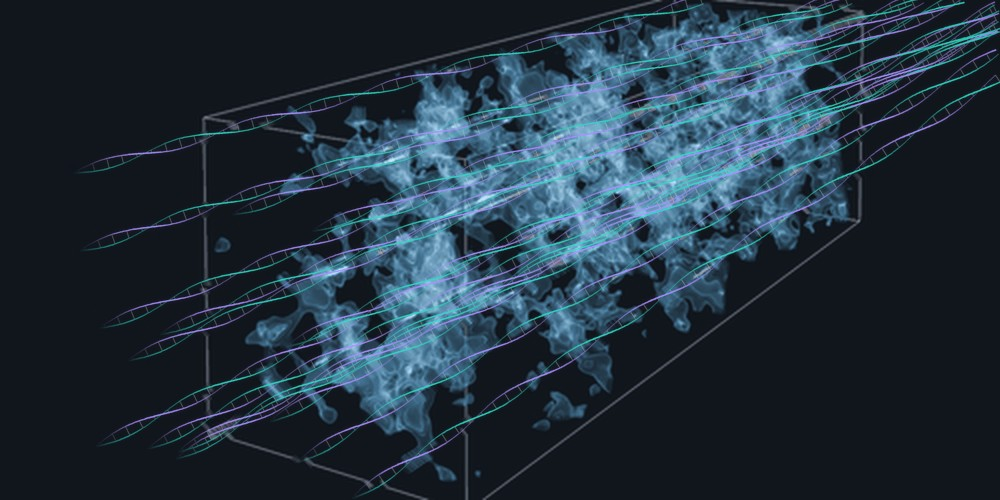
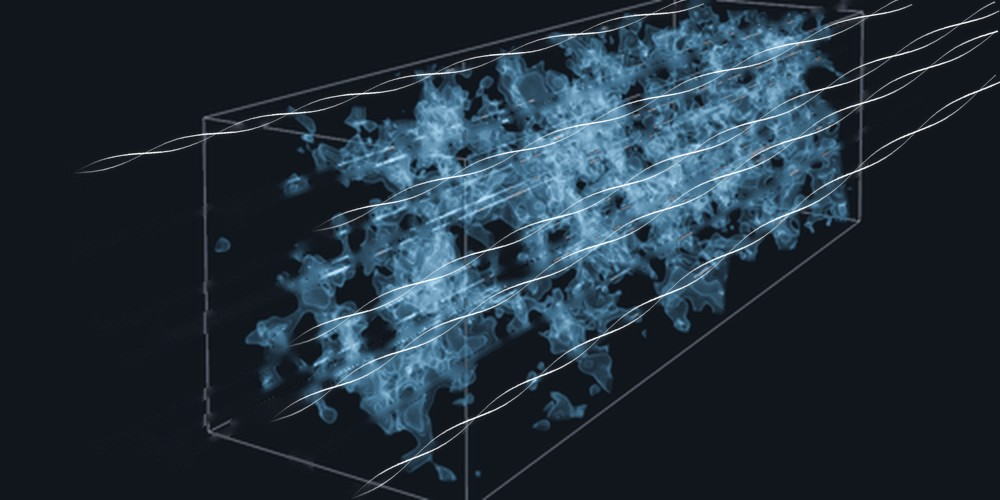
Biomodal figure: five white double helices, no rungs
- Only 5 evenly spread sight lines; all original arrows removed
  (OpenCV inpainting) and box edges restored where they were cut
- Helix strands white, no base-pair rungs

Claude-Session: https://claude.ai/code/session_01SiHqF3nmdqJf51uy6f9hsB

diff --git a/experience.md b/experience.md
@@ -33,7 +33,7 @@ I was a core developer of biomodal's flagship allele-specific methylation softwa
 
 I also led analysis of protocol performance and biological validation, presented at AGBT, Biology of Genomes and the Seqera (Nextflow) Summit, and built a reproducible Nextflow pipeline on GCP to classify colorectal cancer from epigenetic sequencing (submitted to PNAS).
 
-{% include figure.html src="/assets/img/experience/biomodal-genome-forest.jpg" alt="DNA double helices passing as sight lines through a 3D map of clouds, as in the Lyman-alpha forest" caption="Population-wide DNA methylation, by analogy with the Lyman-α forest: each sight line is a genome, and methylation read along many genomes maps the population-wide landscape, as quasar sight lines map intergalactic gas." %}
+{% include figure.html src="/assets/img/experience/biomodal-genome-forest.jpg" alt="Five white DNA double helices passing as sight lines through a 3D map of clouds, as in the Lyman-alpha forest" caption="Population-wide DNA methylation, by analogy with the Lyman-α forest: each sight line is a genome, and methylation read along many genomes maps the population-wide landscape, as quasar sight lines map intergalactic gas." %}
 </section>
 
 <section class="role" id="durham" markdown="1">
